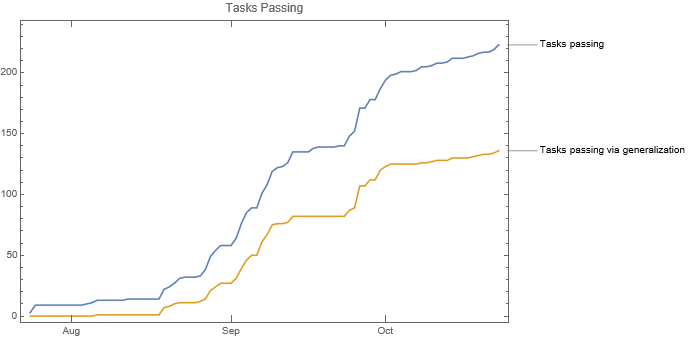
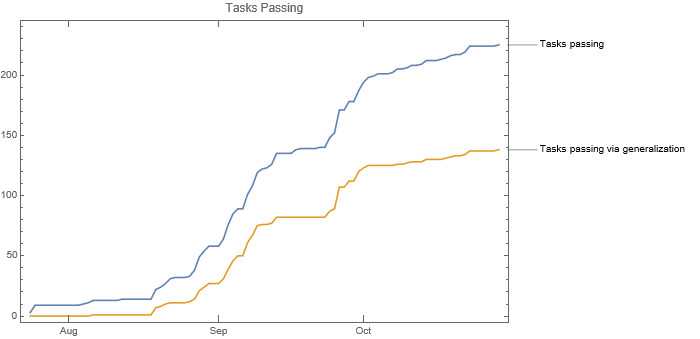
Fixes

diff --git a/README.md b/README.md
@@ -8,11 +8,11 @@ https://github.com/fchollet/ARC
 
 ## Percentage of Tasks Passing
 
-* Training tasks: 169 / 400 (42.2%)\
+* Training tasks: 170 / 400 (42.5%)\
   ![Percentage of Training Tasks Passing](TrainingTasksProgressBar.png?raw=true)
   * Implemented: 84
-  * Passing via generalization: 85
-* Evaluation tasks: 57 / 400 (14.2%)\
+  * Passing via generalization: 86
+* Evaluation tasks: 58 / 400 (14.5%)\
   ![Percentage of Evaluation Tasks Passing](EvaluationTasksProgressBar.png?raw=true)
 
 ## Progress over Time
@@ -128,7 +128,7 @@ https://github.com/fchollet/ARC
 
 ## Tasks Passing via Generalization
 
-### Training Tasks (85)
+### Training Tasks (86)
 
 The following ARC training tasks started passing after some different task was implemented.
 
@@ -217,8 +217,9 @@ The following ARC training tasks started passing after some different task was i
 * [af902bf9](TaskNotes/af902bf9/notes.md)
 * [ba26e723](TaskNotes/ba26e723/notes.md)
 * [dc1df850](TaskNotes/dc1df850/notes.md)
+* [3bdb4ada](TaskNotes/3bdb4ada/notes.md)
 
-### Evaluation Tasks (57)
+### Evaluation Tasks (58)
 
 The following ARC evaluation tasks are passing. My intention is to not analyzed or implemented evaluation examples specifically, but I have implemented a few accidentally.
 
@@ -277,5 +278,6 @@ The following ARC evaluation tasks are passing. My intention is to not analyzed 
 * [903d1b4a](TaskNotes/903d1b4a/notes.md)
 * [981571dc](TaskNotes/981571dc/notes.md)
 * [42a15761](TaskNotes/42a15761/notes.md)
+* [e872b94a](TaskNotes/e872b94a/notes.md)
 * [e5790162](TaskNotes/e5790162/notes.md)
 * [27a77e38](TaskNotes/27a77e38/notes.md)

diff --git a/TaskNotes/3bdb4ada/notes.md b/TaskNotes/3bdb4ada/notes.md
@@ -1,0 +1,10 @@
+# 3bdb4ada
+
+## Examples
+
+![ARC examples for 3bdb4ada](examples.png?raw=true)
+
+## Rules (DSL)
+
+![DSL rules for 3bdb4ada](rules.png?raw=true)
+

diff --git a/TaskNotes/e872b94a/notes.md b/TaskNotes/e872b94a/notes.md
@@ -1,0 +1,10 @@
+# e872b94a
+
+## Examples
+
+![ARC examples for e872b94a](examples.png?raw=true)
+
+## Rules (DSL)
+
+![DSL rules for e872b94a](rules.png?raw=true)
+
